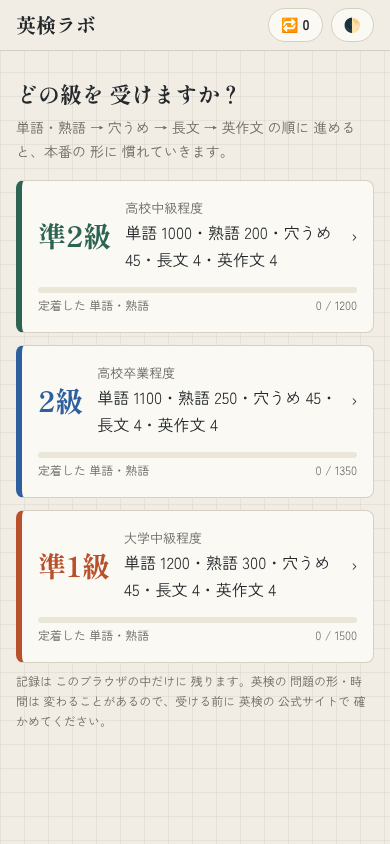
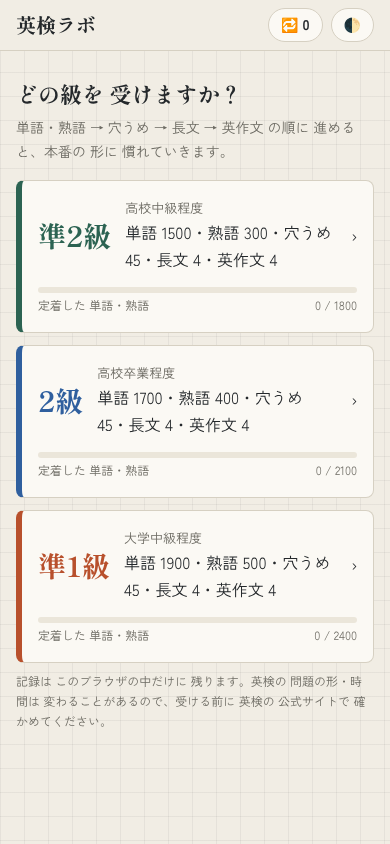
単語・熟語を さらに追加（準2級 1,800・2級 2,100・準1級 2,400）。すべてに イメージ解説つき
Claude-Session: https://claude.ai/code/session_016FYyXwqGFB6ZA7dHdK4wmA

diff --git a/README.md b/README.md
@@ -9,8 +9,8 @@
 
 | メニュー | すること |
 |---|---|
-| 📘 単語 | 準2級 1,000 語・2級 1,100 語・準1級 1,200 語。「英語 → 意味」「意味 → 英語」の 4 択。答えたあとに例文と訳。🔊 で発音を聞ける |
-| 📗 熟語 | 準2級 200 個・2級 250 個・準1級 300 個。「熟語 → 意味」か「例文の（　）に入る熟語」をえらぶ |
+| 📘 単語 | 準2級 1,500 語・2級 1,700 語・準1級 1,900 語。「英語 → 意味」「意味 → 英語」の 4 択。答えたあとに例文と訳。🔊 で発音を聞ける |
+| 📗 熟語 | 準2級 300 個・2級 400 個・準1級 500 個。「熟語 → 意味」か「例文の（　）に入る熟語」をえらぶ |
 | ✏ 大問1 穴うめ | 本番の大問1と同じ形の 4 択（級ごとに 45 問）。単語・熟語・文法でしぼりこめる。解説つき |
 | 📖 長文 | Eメール・説明文を読んで答える（級ごとに 4 本）。本文の読み上げつき |
 | ✍ 英作文 | 「型を見る → 自分で書く（語数を自動で数える）→ チェック表 → 模範解答と和訳」 |
@@ -22,36 +22,36 @@
 
 | 級 | 単語 | 熟語 | 合計 |
 |---|---|---|---|
-| 準2級 | 1,000 | 200 | 1,200 |
-| 2級 | 1,100 | 250 | 1,350 |
-| 準1級 | 1,200 | 300 | 1,500 |
+| 準2級 | 1,500 | 300 | 1,800 |
+| 2級 | 1,700 | 400 | 2,100 |
+| 準1級 | 1,900 | 500 | 2,400 |
 
-市販の英検単語帳（1 冊 1,500〜1,900 項目）に近い量です。級をまたいだ重なりはありません（同じ語は いちばん下の級に 1 回だけ）。
+市販の英検単語帳（1 冊 1,500〜1,900 項目）より 多い量です。リスニングに出る 生活の語（receipt・refund など）や、よく出る 語の 仲間（decide → decisive など）も 入れました。級をまたいだ重なりはありません（同じ語は いちばん下の級に 1 回だけ）。
 
 **どうやって 確かめたか**：英語の単語を 難しさで 分けた 公開リスト（CEFR-J Wordlist／Octanove Vocabulary Profile）と くらべました。英検の級と CEFR の 目安は 準2級 ≒ A2〜B1、2級 ≒ B1〜B2、準1級 ≒ B2〜C1 です。
 
-| | 前（200 語ずつ） | 今 |
-|---|---|---|
-| A2 の単語のうち 入っている数 | 139 / 1,272 | 478 / 1,272 |
-| B1 | 194 / 2,174 | 957 / 2,174 |
-| B2 | 114 / 2,490 | 609 / 2,490 |
+| | はじめ（200 語ずつ） | 第 1 弾 | 今 |
+|---|---|---|---|
+| A2 の単語のうち 入っている数 | 139 / 1,272 | 478 | **633** |
+| B1 | 194 / 2,174 | 957 | **1,208** |
+| B2 | 114 / 2,490 | 609 | **1,055** |
 
 - 各級の 単語の むずかしさも 目安どおりです（準2級は A2・B1 が 9 割、2級は B1・B2 が 9 割、準1級は C1・C2 と リストにない 上級語が 9 割）。
-- 残りの A2 は 中学で習う 基本語、B2 の残りは 準1級より上や 英検に あまり出ない語が 多くなっています。
+- 残りの A2 は 中学で習う 基本語（3級まで）、B1・B2 の残りは 英検に あまり出ない語や 準1級より上の語が 多くなっています。
 - 英検の 過去問そのものの 出た回数は 公開されていないので、「本番に出る語 100%」を 保証するものでは ありません。
 
-### 🧠 イメージと 覚え方（4,050 語・熟語 すべて）
+### 🧠 イメージと 覚え方（6,300 語・熟語 すべて）
 
 | | 中身 | 例（acquire） | 入っている数 |
 |---|---|---|---|
 | 🧠 コアの意味 | 辞書の意味を ならべず、1 つのイメージで「なぜ その意味か」 | 外にあるものを「求めて、自分のものにする」 | すべて |
 | 🎬 イメージの場面 | 頭に 絵を 描ける 具体的な 場面 | アメリカに引っこした幼い妹が、半年で英語をぺらぺら話すようになっていた | すべて |
 | ➡ 意味の広がり | コアから 実際の 意味へ 矢印で | 求めて自分のものに → 言葉・技術を習得する → 物・会社を得る | すべて |
-| 🧩 部品の図 | 本当の 語源の 部品を ブロックで（熟語は 動詞 × 前置詞） | ac（～へ）＋ quire（求める）＝ acquire | 2,641 |
-| ⚖ にている語との ちがい | まぎらわしい 語との 使い分け | get は何でも「手に入れる」、acquire は努力や時間をかけて身につける | 3,080 |
-| 👪 なかまの語 | 同じ部品・同じコアの 語 | require・inquire | 3,003 |
+| 🧩 部品の図 | 本当の 語源の 部品を ブロックで（熟語は 動詞 × 前置詞） | ac（～へ）＋ quire（求める）＝ acquire | 4,023 |
+| ⚖ にている語との ちがい | まぎらわしい 語との 使い分け | get は何でも「手に入れる」、acquire は努力や時間をかけて身につける | 4,208 |
+| 👪 なかまの語 | 同じ部品・同じコアの 語 | require・inquire | 4,527 |
 | 🔑 覚え方 | 本当の語源・知っている語・カタカナ語・場面 | question（答えを求める）と同じ仲間 | すべて |
-| 絵文字 | コアのイメージを 絵文字で | put off 📅➡ | 3,268 |
+| 絵文字 | コアのイメージを 絵文字で | put off 📅➡ | 5,512 |
 | 前置詞の図 | run **out** of・give **up** などの 小さな語の イメージ図（30 種類） | | 動詞＋前置詞の 熟語 |
 
 - **どこで 見られるか**：まちがえたとき（ぜんぶ 大きく）・📖 覚えるカード（ぜんぶ）・📋 一覧（ひらくと ぜんぶ）。正解したときは コア・部品・広がり だけ 出して、残りは「🎬 場面・ちがい・覚え方を 見る」で ひらく。
